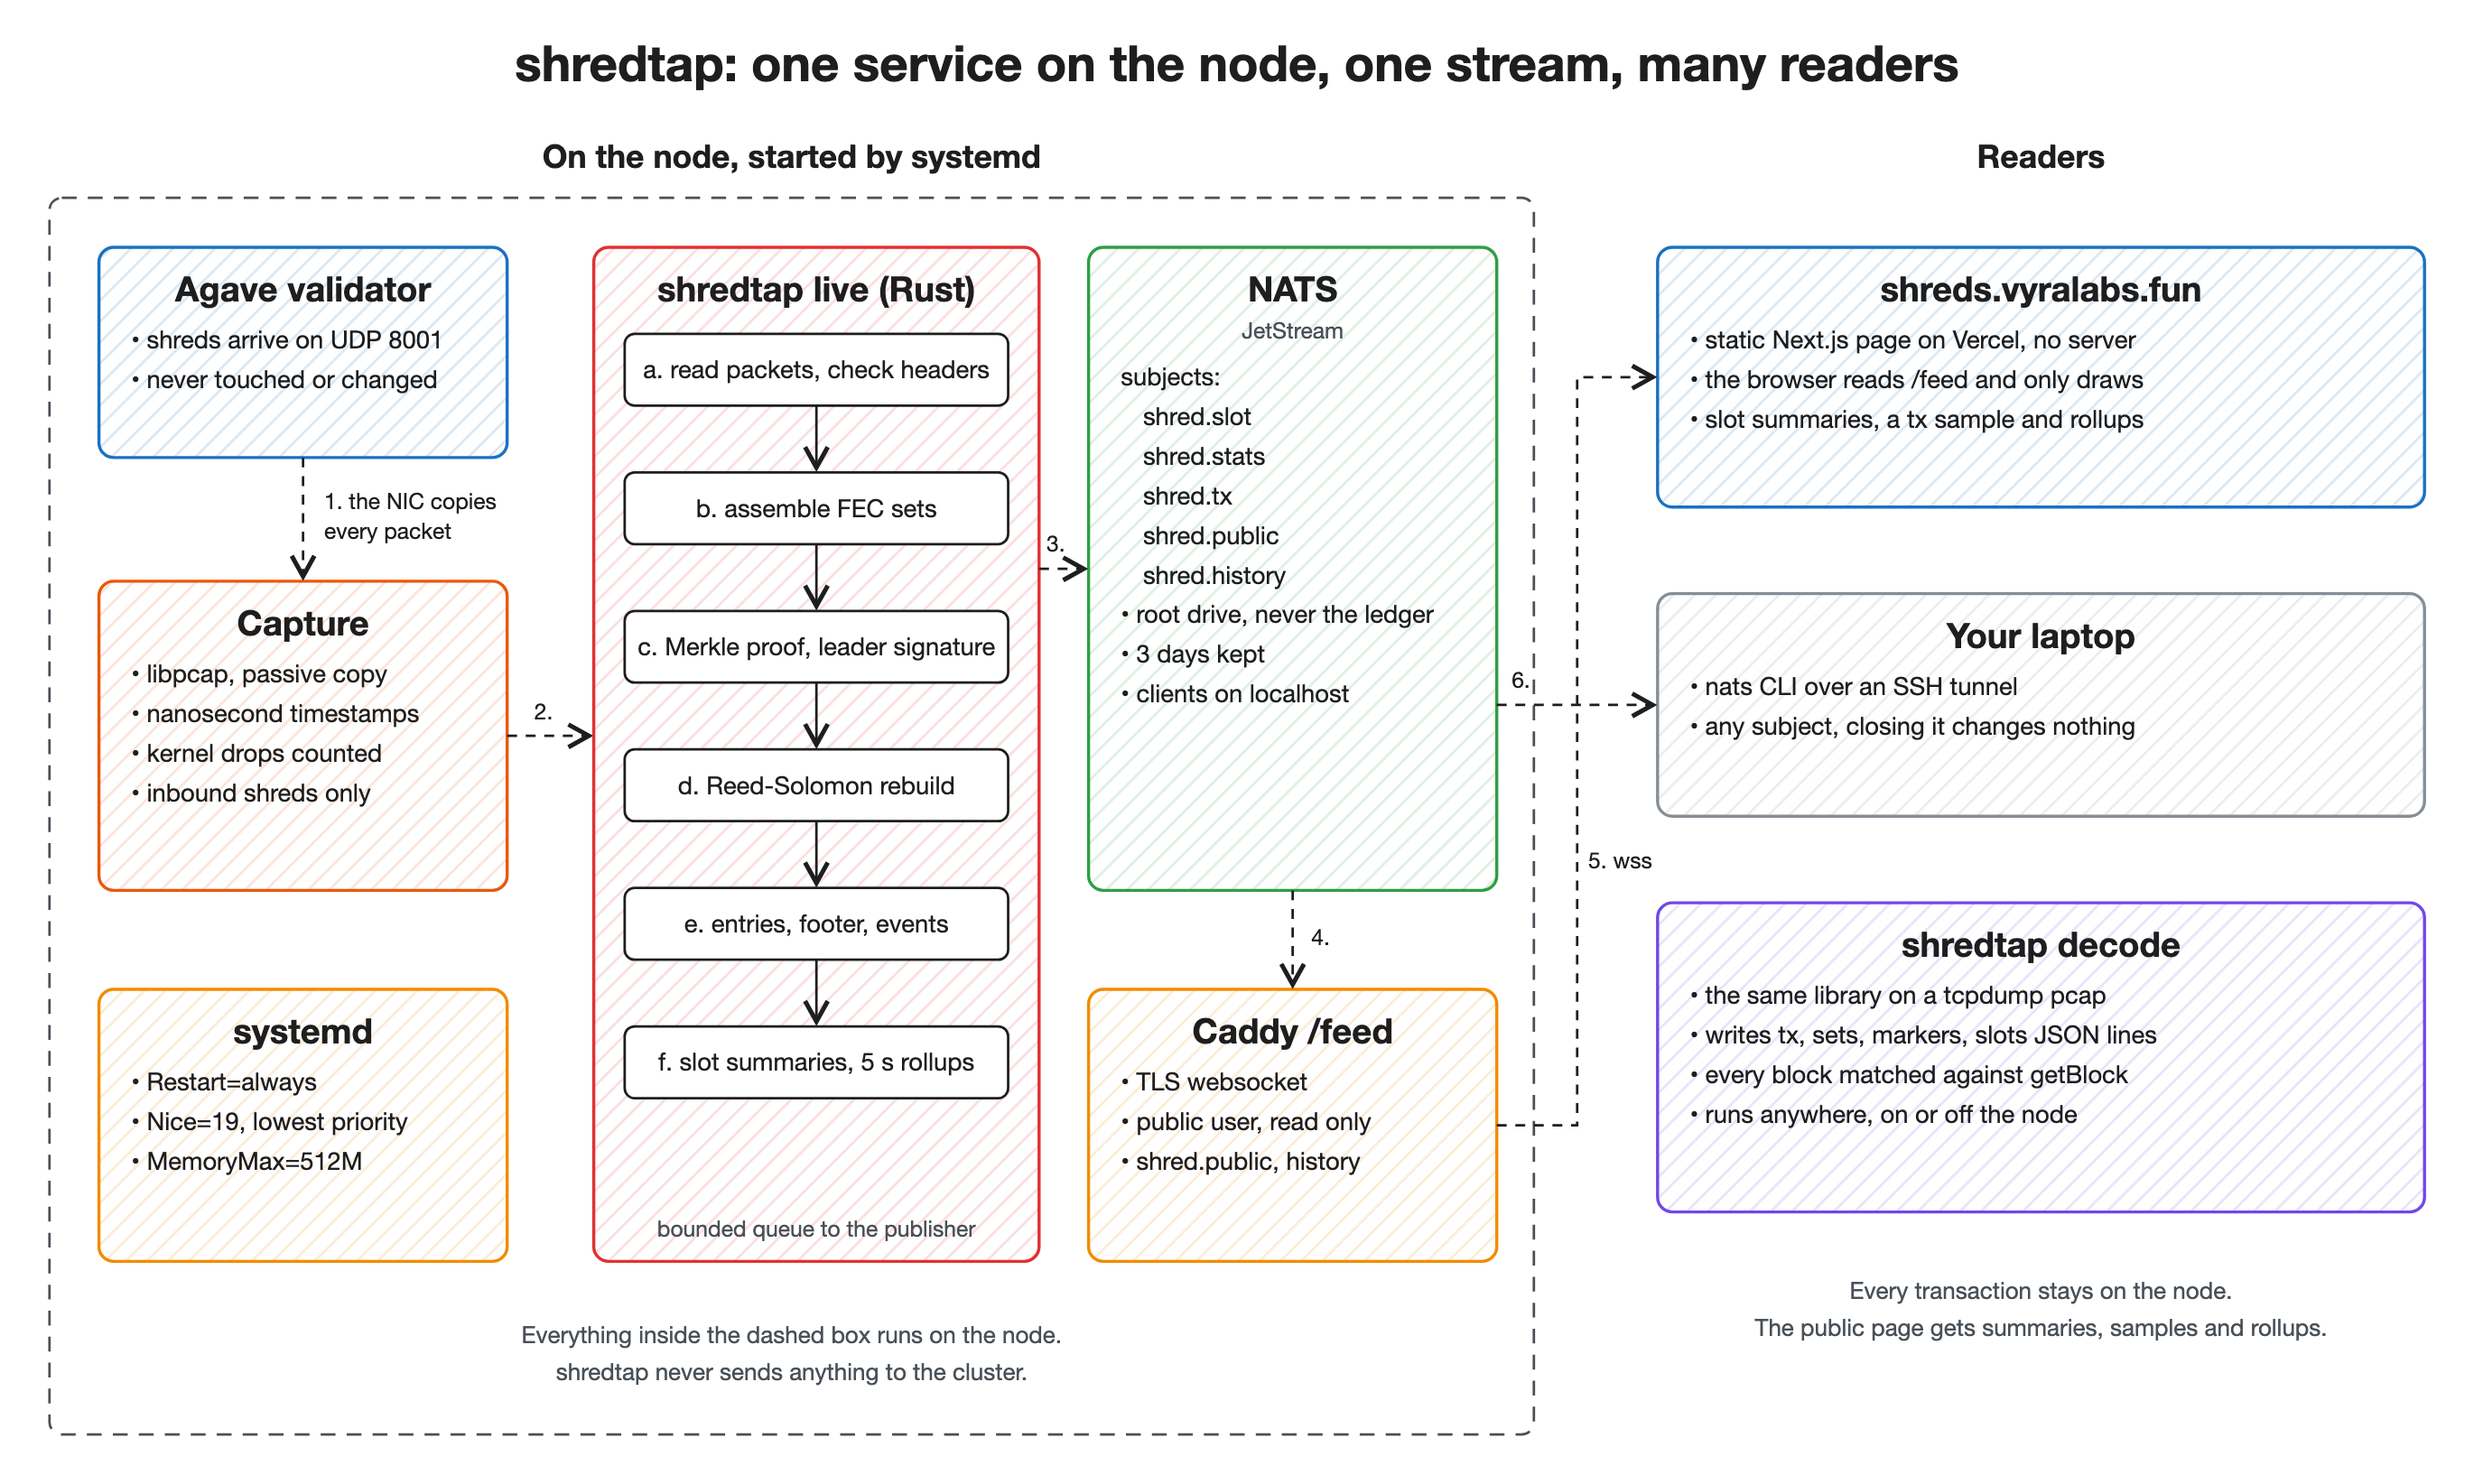
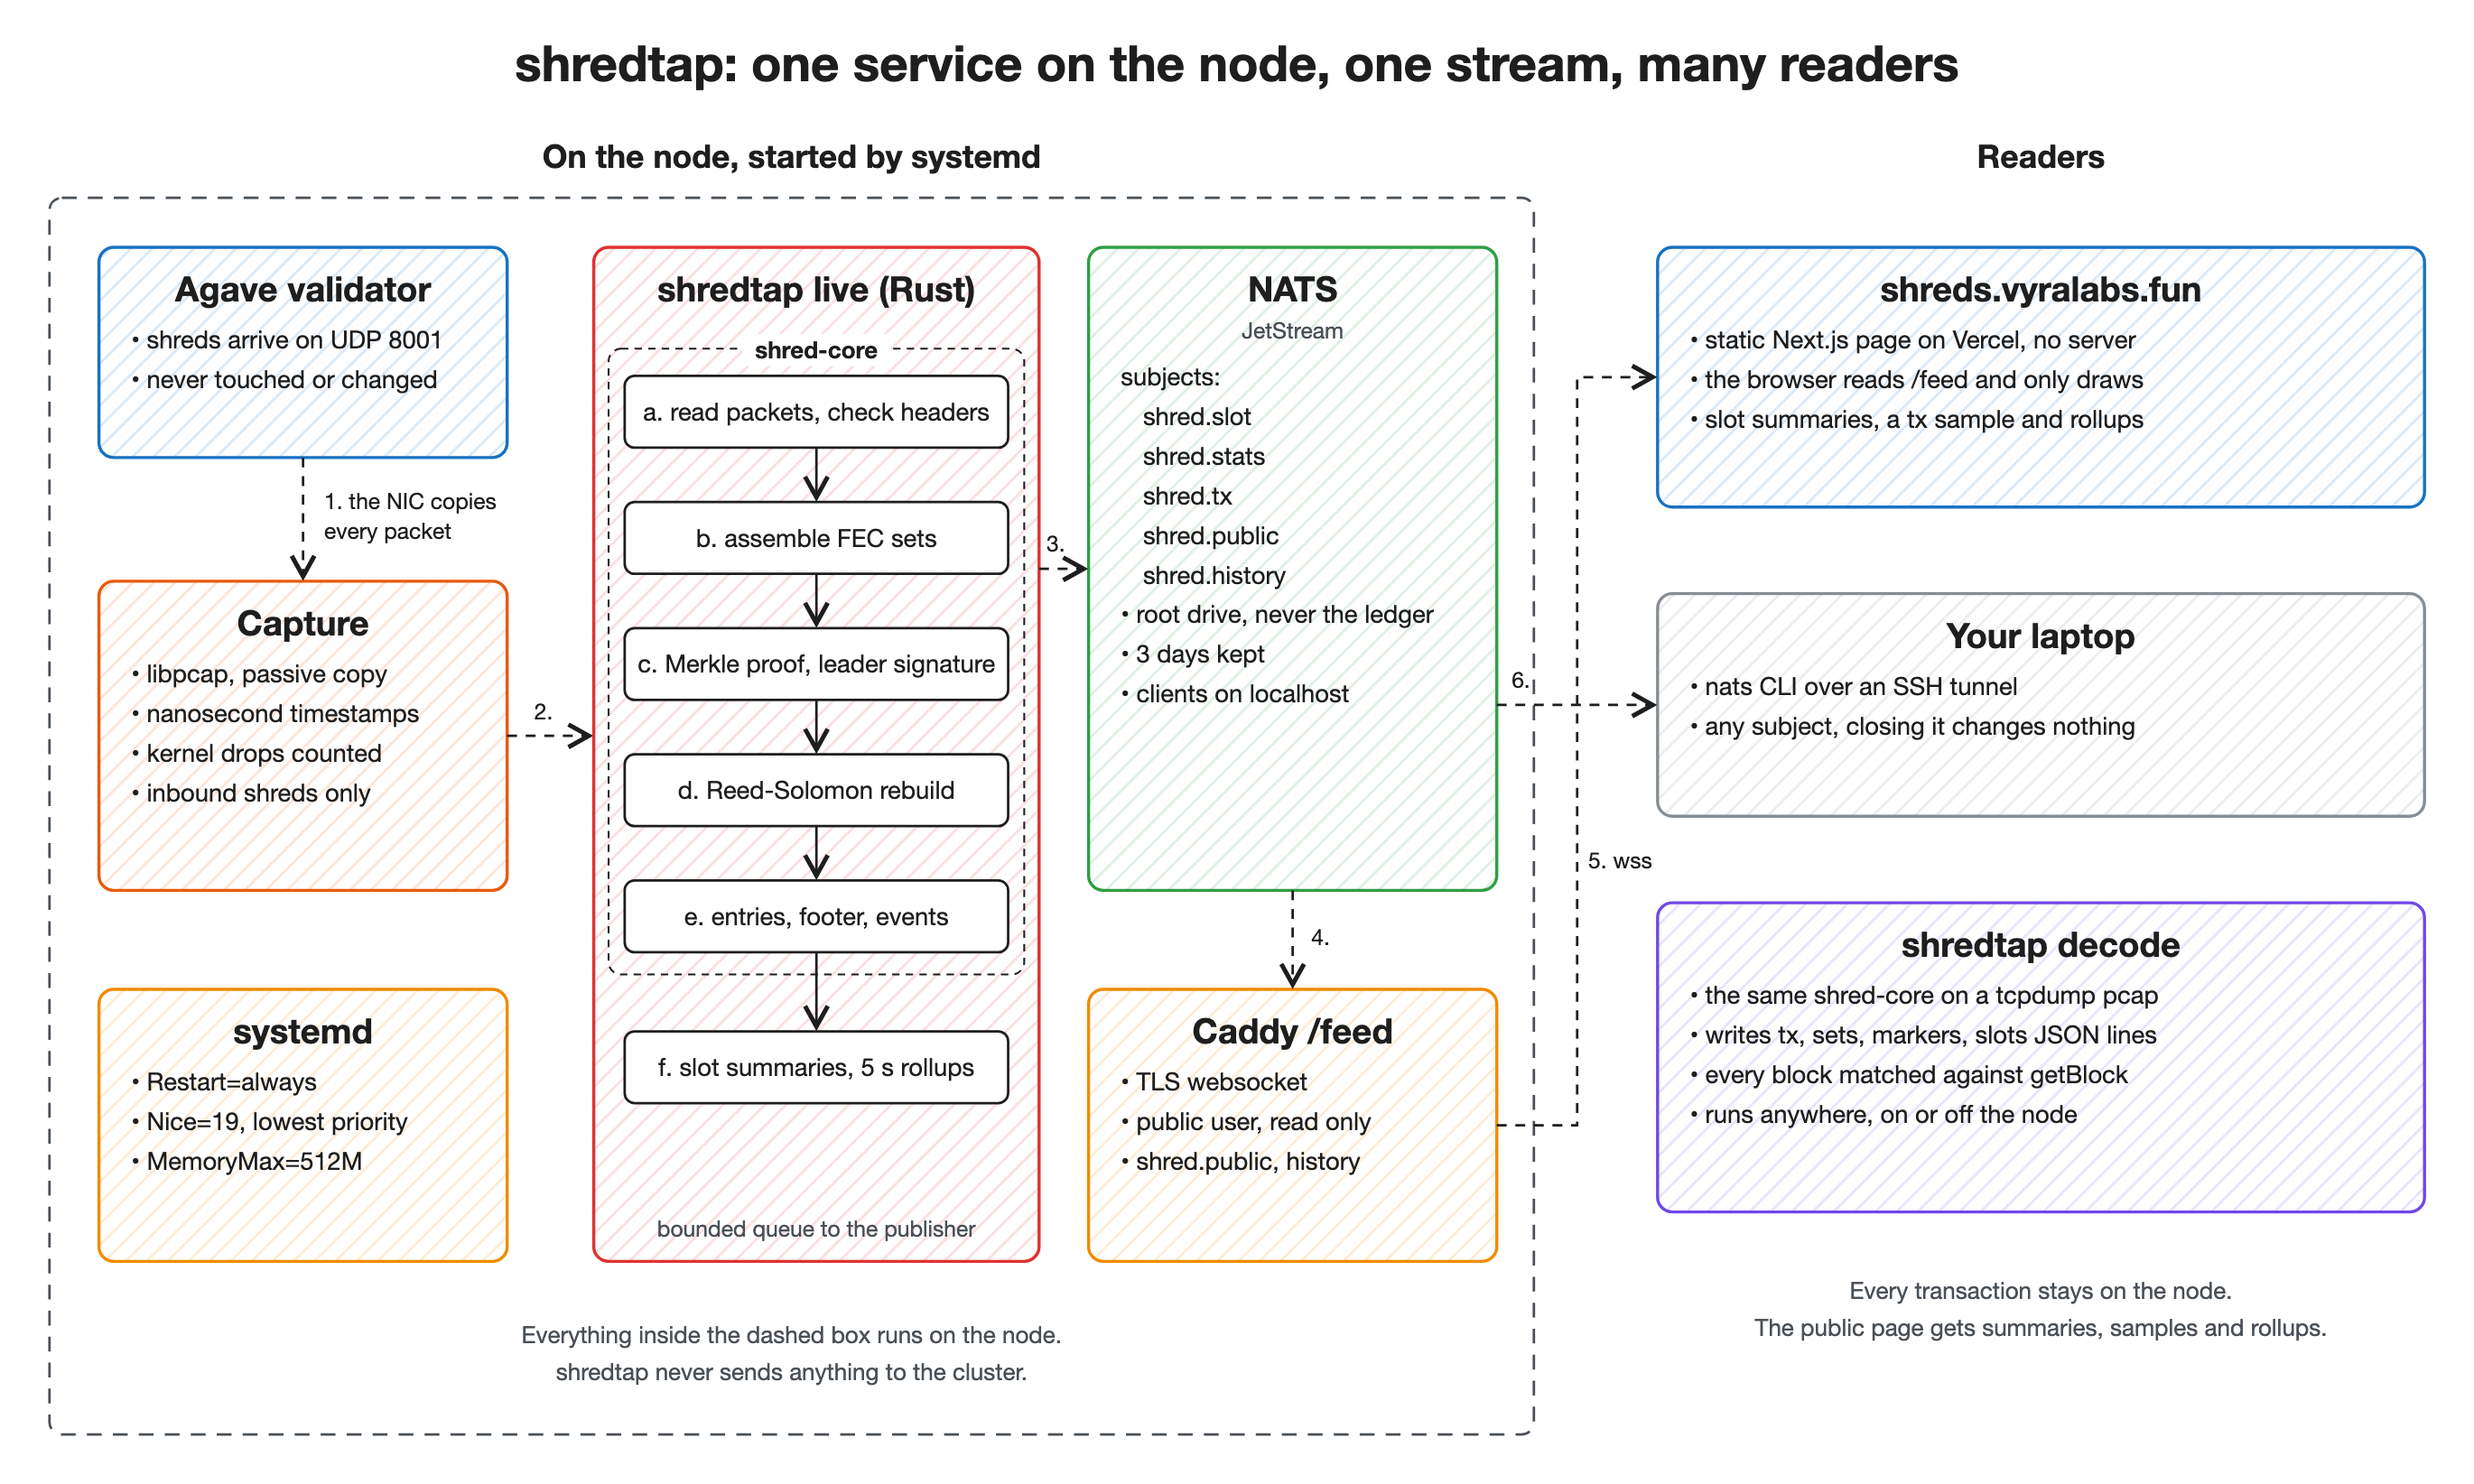
readme updated

diff --git a/README.md b/README.md
@@ -6,6 +6,8 @@ shredtap reads the shreds arriving at a node, from a packet capture or live from
 
 Live from the Vyra Labs testnet validator in Singapore: [shreds.vyralabs.fun](https://shreds.vyralabs.fun)
 
+The shred reading itself lives in [shred-core](https://github.com/vyralabshq/shred-core): parsing shreds, Merkle proofs and leader signatures, FEC sets and Reed-Solomon, and decoding entries and the block footer. shredtap runs it on a capture or a live interface, times every step and publishes what it finds.
+
 ![shredtap architecture](docs/architecture.png)
 
 ## What it checks
@@ -28,7 +30,7 @@ cd shred-tap
 cargo build --release
 ```
 
-That builds `shredtap decode`. Two features add the live parts.
+Cargo fetches shred-core from GitHub at tag `v0.1.0`. That builds `shredtap decode`. Two features add the live parts.
 
 - `live` adds `shredtap live`, reading packets straight from a network interface. Needs libpcap.
 - `nats` adds `--nats`, publishing every event to a NATS server.
